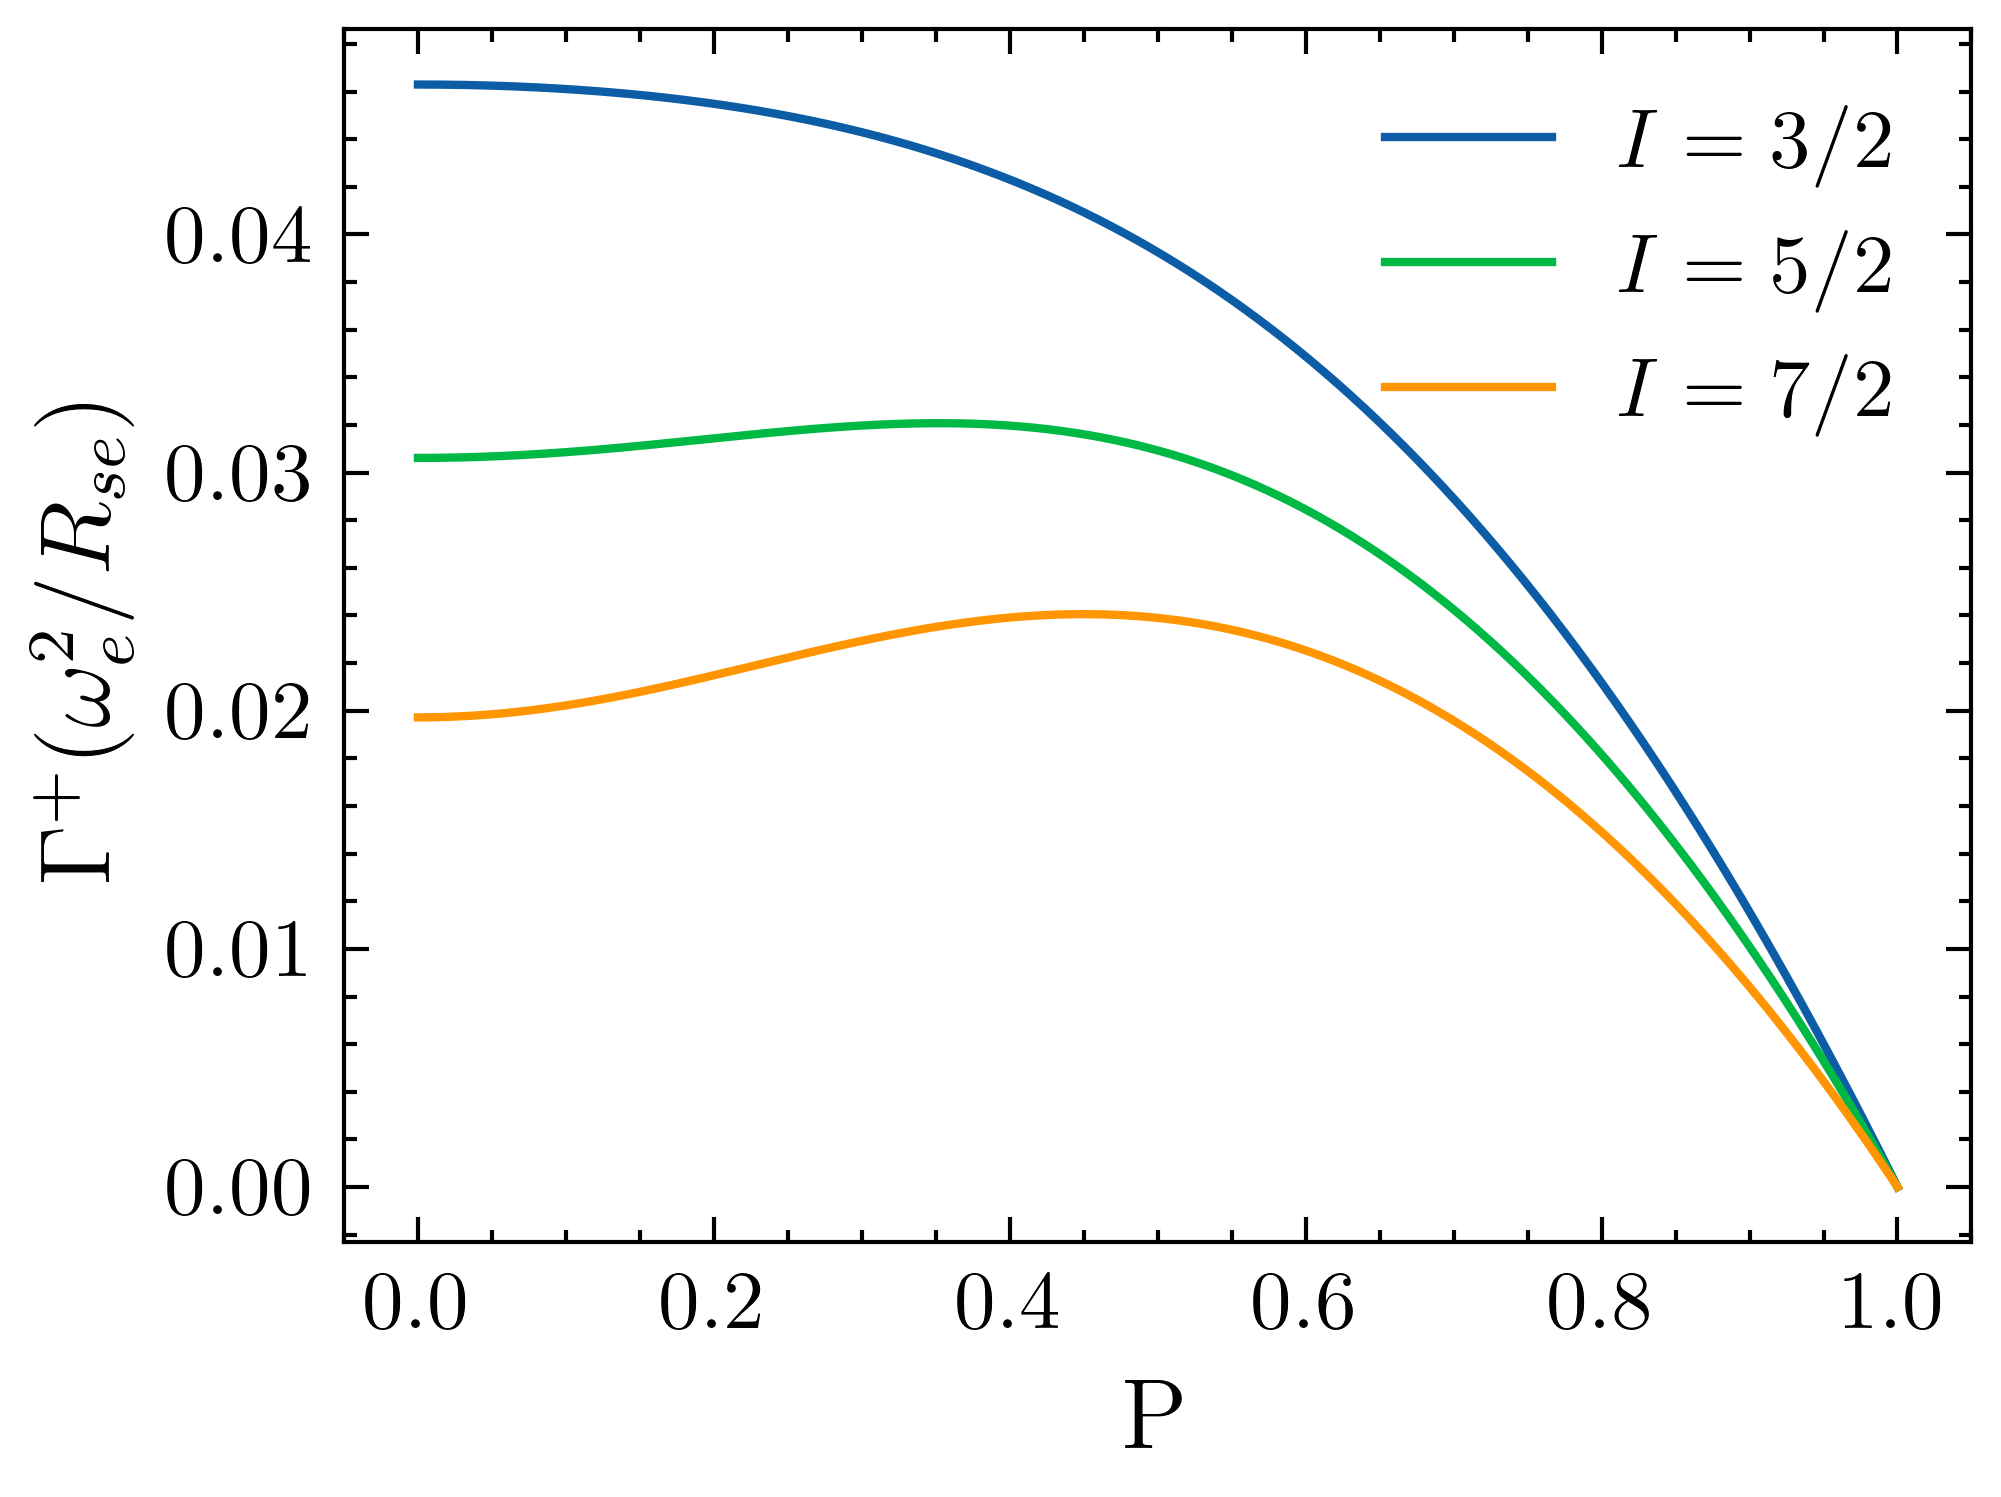
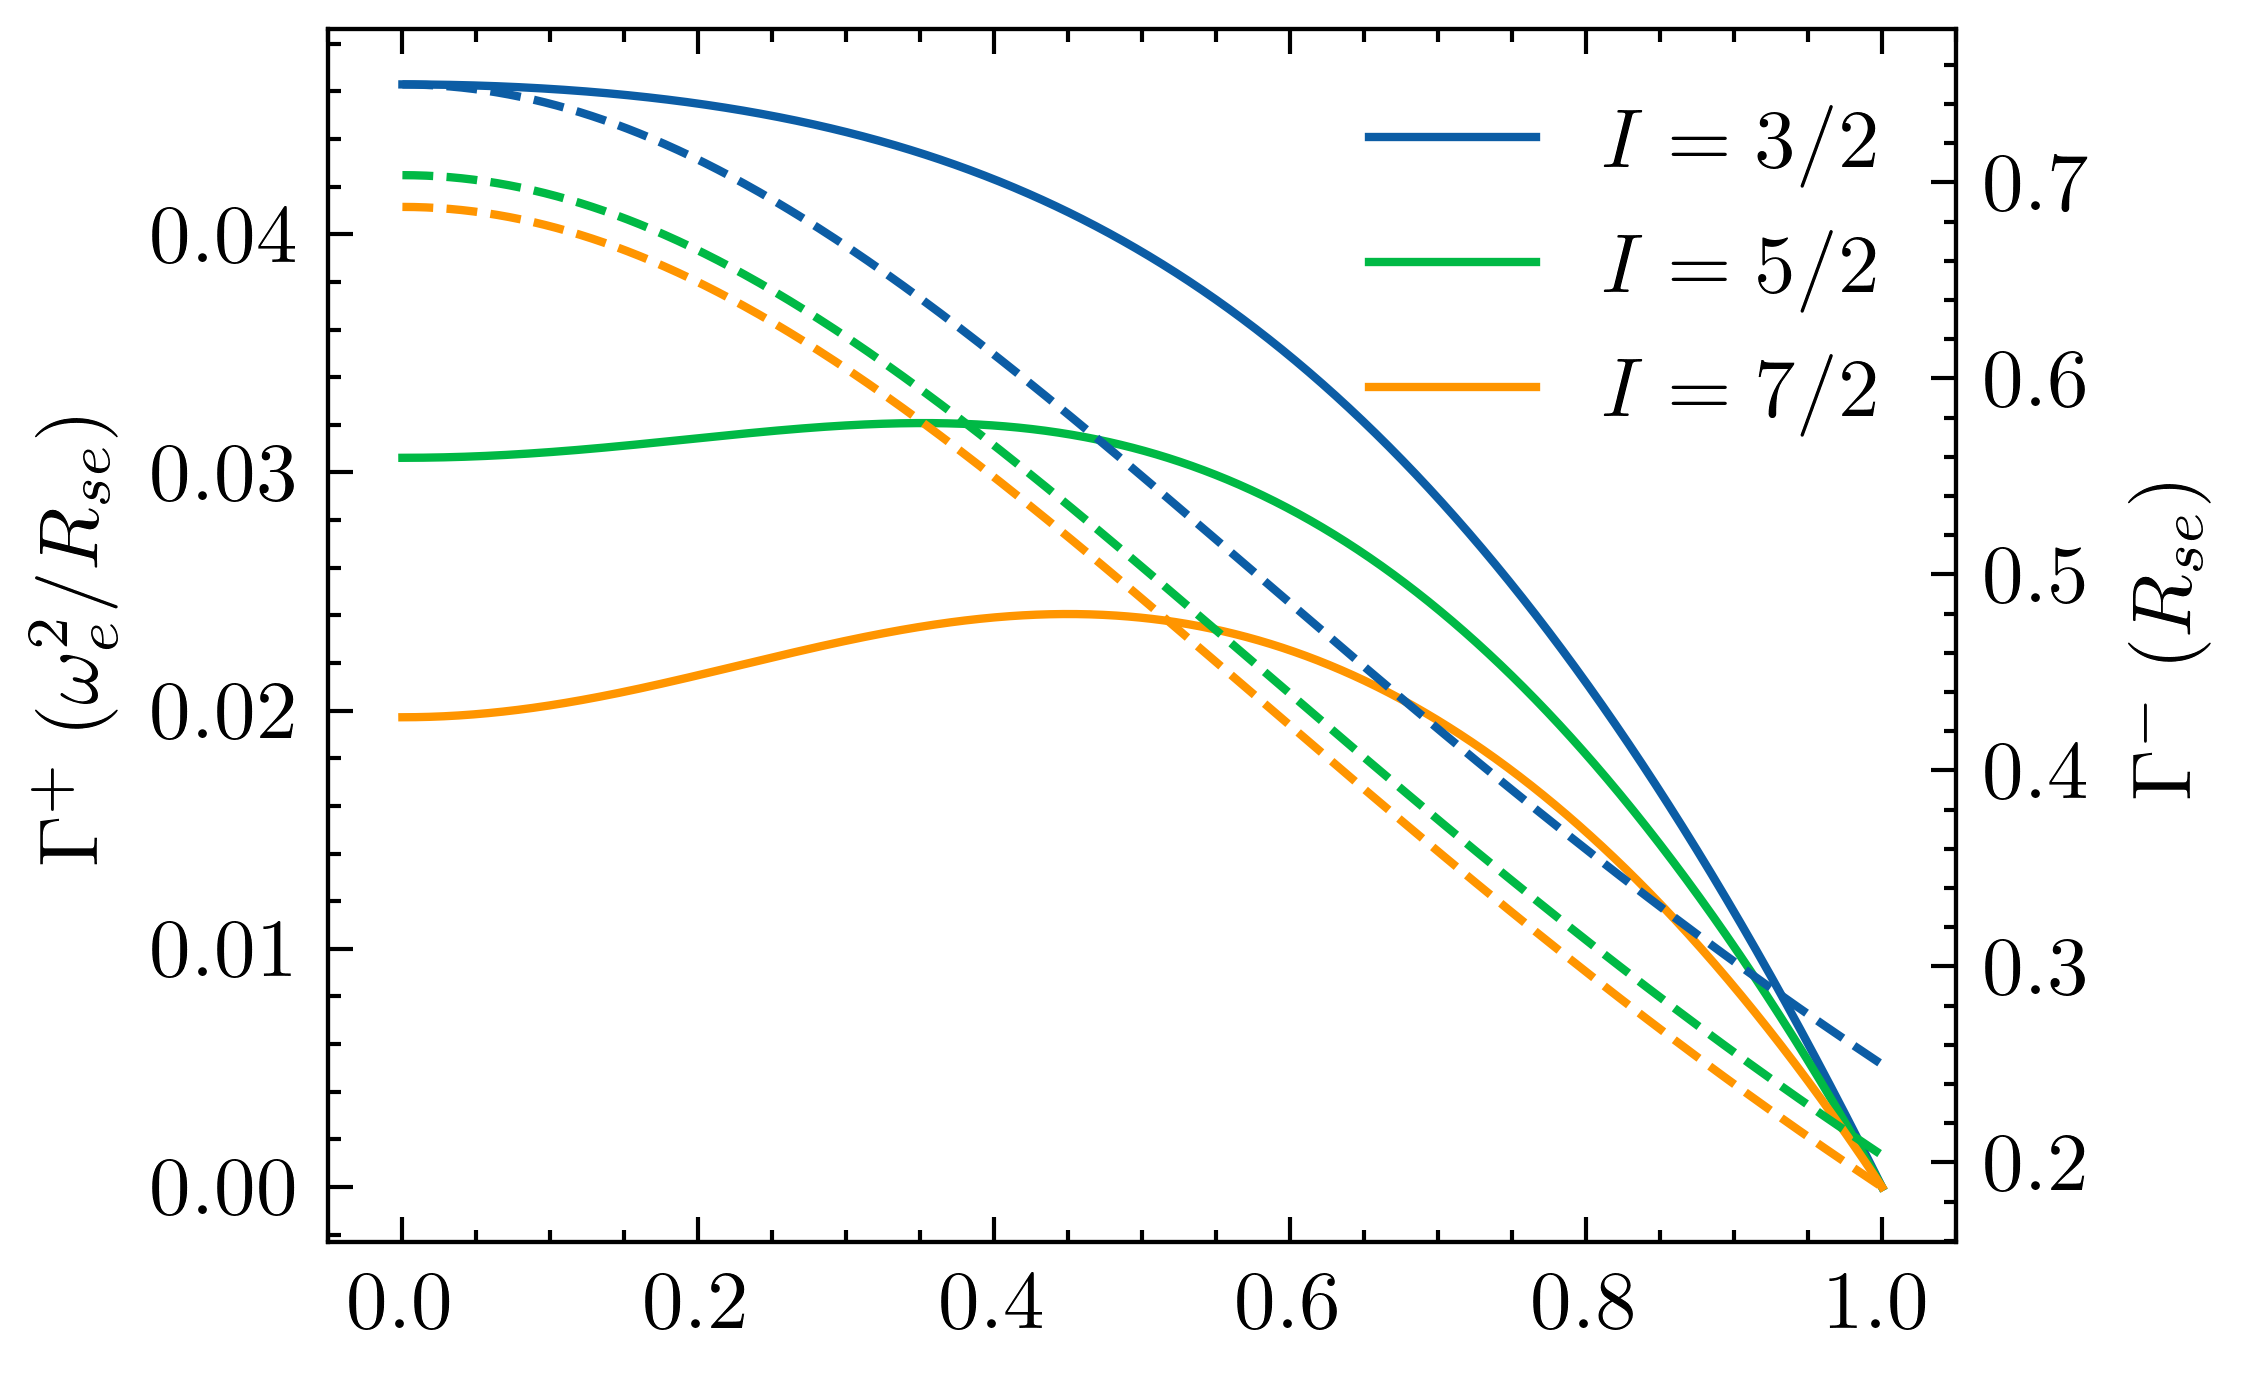
1

diff --git a/test.py b/test.py
@@ -9,29 +9,53 @@ import scienceplots
 
 P = np.linspace(0, 1, 1000)
 q = 2 * (3 + P ** 2) / (1 + P ** 2)
+L=P**2/4/(P**2+1)
 Gammaq = (q**2-16)/(2*q**3)
+GammaNq = 2/3+4/3/16-4*L
 
 qq = 2 * (19 + 26 * P ** 2 + 3 * P ** 4) / (3 + 10 * P ** 2 + 3 * P ** 4)
+LL=8*P**2*(3*P**2+7)/27/(3*P**4+10*P**2+3)
 Gammaqq = (qq**2-36)/(2*qq**3)
+GammaNqq = 2/3+4/3/36-4*L
+
 qqq = 2 * (11 + 35 * P ** 2 + 17 * P ** 4 + P ** 6) / (1 + 7 * P ** 2 + 7 * P ** 4 + P ** 6)
+LLL=P**2*(5*P**4+30*P**2+21)/16/(P**6+7*P**4+7*P**2+1)
 Gammaqqq = (qqq**2-64)/(2*qqq**3)
+GammaNqqq = 2/3+4/3/64-4*L
+
 
 
 plt.style.use(['science' ])
 with plt.style.context(['science']):
     plt.figure()
-    p1, = plt.plot(P, Gammaq)
-    p2, = plt.plot(P, Gammaqq)
-    p3, = plt.plot(P, Gammaqqq)
-    # p4, = plt.plot(P, q,color='dodgerblue', linestyle='dashdot')
-    # p5, = plt.plot(P, qq,color='black', linestyle='dashdot')
-    # p6, = plt.plot(P, qqq,color='olive', linestyle='dashdot')
-    plt.legend([p1, p2, p3], ["$I={3/2}$", "$I={5/2}$", "$I={7/2}$"],
+    # p1, = plt.plot(P, Gammaq)
+    # p2, = plt.plot(P, Gammaqq)
+    # p3, = plt.plot(P, Gammaqqq)
+    # # p4, = plt.plot(P, q,color='dodgerblue', linestyle='dashdot')
+    # # p5, = plt.plot(P, qq,color='black', linestyle='dashdot')
+    # # p6, = plt.plot(P, qqq,color='olive', linestyle='dashdot')
+    # plt.legend([p1, p2, p3], ["$I={3/2}$", "$I={5/2}$", "$I={7/2}$"],
+    #            loc='upper right', prop={'size': 10})
+    # plt.xticks(fontsize=10)
+    # plt.yticks(fontsize=10)
+    # plt.xlabel('P', fontsize=12)
+    # plt.ylabel('', fontsize=12)
+
+
+
+    fig = plt.figure()
+    ax1 = fig.add_subplot(111)
+    ax1.plot(P, Gammaq)
+    ax1.plot(P, Gammaqq)
+    ax1.plot(P, Gammaqqq)
+    ax1.set_ylabel('$\Gamma^+\;(\omega_e^2/R_{se})$')
+    plt.legend( ["$I={3/2}$", "$I={5/2}$", "$I={7/2}$"],
                loc='upper right', prop={'size': 10})
-    plt.xticks(fontsize=10)
-    plt.yticks(fontsize=10)
-    plt.xlabel('P', fontsize=12)
-    plt.ylabel('$\Gamma^+(\omega_e^2/R_{se})$', fontsize=12)
+    ax2 = ax1.twinx()  # this is the important function
+    ax2.plot(P, GammaNq,linestyle='dashed')
+    ax2.plot(P, GammaNqq,linestyle='dashed')
+    ax2.plot(P, GammaNqqq,linestyle='dashed')
+    ax2.set_ylabel('$\Gamma^-\;(R_{se})$')
     # my_y_ticks = np.arange(0, 1, 0.2)
     # plt.yticks(my_y_ticks)
     plt.savefig('linewidth.png', dpi=600)

diff --git a/Master_equation.py b/Master_equation.py
@@ -30,9 +30,9 @@ Sz = U.T.conjugate() @ Sz @ U
 
 # --------------------------------Characterize interactions envolved-----------------------------------#
 Rse = 1
-omega_0 = 1
+omega_0 = 0.01
 Rop = 0.1
-Rsd = 0.001
+Rsd = 0.0005
 sx=1/np.sqrt(2)
 sz=1/np.sqrt(2)
 # --------------------------------Define the initial state-----------------------------------#
@@ -62,7 +62,7 @@ Rho_ini = Rho_ini / np.trace(Rho_ini)
 # --------------------------------------Evolution under hyperfine effect, etc.--------------------------------#
 Rhot = Rho_ini
 dt = 0.01
-T = 600
+T = 20000
 t = np.arange(0, T, dt)
 hyperfine = block_diag(np.ones((2 * a + 1, 2 * a + 1)), np.ones((2 * b + 1, 2 * b + 1)))  # 一个原子
 MSx = np.zeros(round(T / dt))
@@ -74,7 +74,7 @@ q, v = np.linalg.eig(H)
 evolving_B = v @ np.diag(np.exp(-1j * q * dt)) @ np.linalg.inv(v)
 for n in np.arange(0, round(T / dt), 1):
     # -----------------Evolution-----------------#
-    if n==round(T / dt)/2:
+    if n==round(T / dt)/10:
         Rop = 0.0
     x1 = Rhot @ Sx
     x2 = Rhot @ Sy
@@ -105,7 +105,7 @@ Px = P * np.sin(theta)
 Pz = P * np.cos(theta)
 Py = 0
 for n in np.arange(0, round(T / dt), 1):
-    if n==round(T / dt)/2:
+    if n==round(T / dt)/10:
         Rop = 0.0
     transverse[n] = Px
     longitude[n] = Pz
@@ -147,7 +147,7 @@ with plt.style.context(['science']):
     # plt.ylim(0, 18)
     plt.xticks(fontsize=10)
     plt.yticks(fontsize=10)
-    plt.legend([p1, p3, p2, p4], ["$P_x^{\mathrm{DM}}$", "$P_x^{\mathrm{NB}}$", "$P_z^{\mathrm{DM}}$", "$P_z^{\mathrm{NB}}$"], loc='center right',
+    plt.legend([p1, p3, p2, p4], ["$P_x^{\mathrm{DM}}$", "$P_x^{\mathrm{NB}}$", "$P_z^{\mathrm{DM}}$", "$P_z^{\mathrm{NB}}$"], loc='upper right',
                prop={'size': 10})
 
     plt.xlabel('Time $(1/R_{se})$', fontsize=12)
